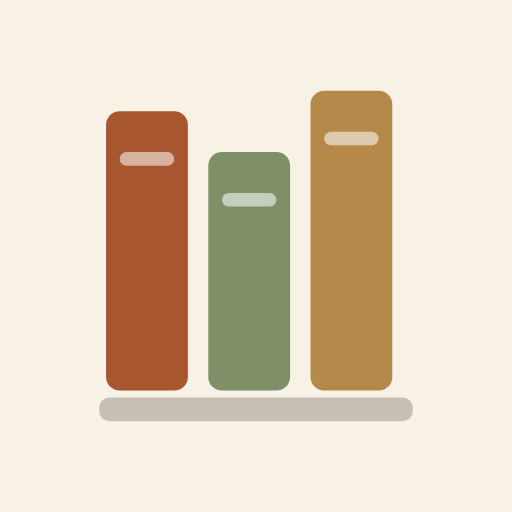
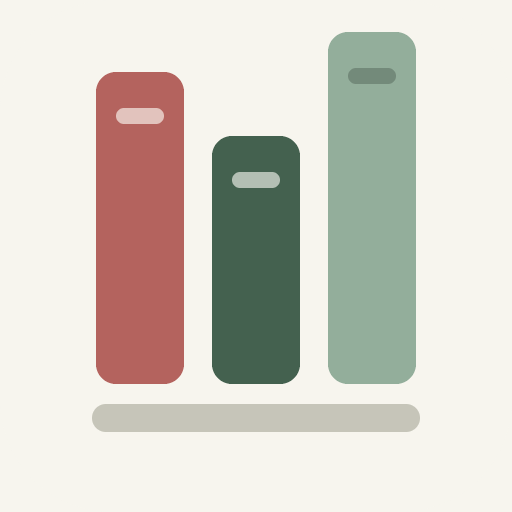
Add files via upload

diff --git a/index.html b/index.html
@@ -3,7 +3,7 @@
 <head>
 <meta charset="utf-8">
 <meta name="viewport" content="width=device-width,initial-scale=1,viewport-fit=cover">
-<meta name="theme-color" content="#f4efe7">
+<meta name="theme-color" content="#F7F5EE">
 <meta name="apple-mobile-web-app-capable" content="yes">
 <meta name="apple-mobile-web-app-status-bar-style" content="default">
 <meta name="apple-mobile-web-app-title" content="Bookshelf">
@@ -12,16 +12,34 @@
 <link rel="apple-touch-icon" href="icon.png">
 <link rel="manifest" href="manifest.webmanifest">
 <style>
-:root{
-  --ink:#3b342c; --blue:#a8562f; --blue-light:#b9ad9e;
-  --green:#7f9068; --terracotta:#a8562f; --coral:#b0503f; --purple:#8a7c6b;
-  --text:#6b6157; --muted:#a1968a; --line:#ece3d6;
-  --surface:#fffdf9; --soft:#f3ede3; --dark:#2e2925;
-  --bg:#f4efe7;
+:root{ /* --blue 는 --accent 로 통일했다 (별칭은 상위에서 굳어버려 탭 색을 못 따라감) */
+  /* 확정 팔레트 (핸드오프 3a — 탭별 서페이스) */
+  --primary:#44614F; --primary-deep:#2E4636;
+  --rose:#B4635E; --rose-soft:#EFDCD9; --rose-tint:#F3E1DF;
+  --rose-ondark:#E7B4B0; --rose-dim:#A15450;
+  --ink:#1F2A24; --text:#5F6259; --muted:#8A8B80;
+  --line:#E6E4D9; --track:#E6E5DA;
+  --surface:#FFFDF7; --soft:#ECEAE0; --dark:#2E4636;
+
+  /* 탭마다 바뀌는 값 — 색을 하드코딩하지 않고 여기 하나로 관리한다 */
+  --page:#F7F5EE; --accent:#44614F; --tabaccent:#44614F;
+  --on-page:#1F2A24; --on-page-sub:#5F6259;
+  --cardbg:#FFFDF7; --cardline:#E6E4D9;
+
+  /* 예전 이름은 새 값으로 이어둔다 — 기존 규칙이 그대로 동작하게 */
+  --blue:var(--accent); --blue-light:#C6C5B9;
+  --green:#44614F; --terracotta:#B4635E; --coral:#A15450; --purple:#8A8B80;
+  --bg:#F7F5EE;
   --font:-apple-system,BlinkMacSystemFont,"Pretendard","Apple SD Gothic Neo","Malgun Gothic","맑은 고딕",sans-serif;
   --r:20px; --rs:14px;
-  --shadow:0 2px 14px rgba(59,52,44,.07);
+  --shadow:0 2px 14px rgba(31,42,36,.07);
 }
+#app[data-tab="home"]{--page:#44614F;--accent:#B4635E;--tabaccent:#44614F;
+  --on-page:#F7F5EE;--on-page-sub:rgba(247,245,238,.66);
+  --cardbg:#F7F5EE;--cardline:transparent}
+#app[data-tab="calendar"]{--page:#EFDCD9;--accent:#B4635E;--tabaccent:#B4635E}
+#app[data-tab="shelf"]{--page:#F7F5EE;--accent:#44614F;--tabaccent:#1F2A24}
+#app[data-tab="settings"]{--page:#F7F5EE;--accent:#44614F;--tabaccent:#8A8B80}
 *{box-sizing:border-box;-webkit-tap-highlight-color:transparent}
 html,body{height:100%}
 body{margin:0;font-family:var(--font);font-size:15px;color:var(--text);
@@ -30,31 +48,33 @@ body{margin:0;font-family:var(--font);font-size:15px;color:var(--text);
 button,input,select,textarea{font-family:inherit;font-size:inherit;color:inherit}
 button{border:0;background:none;cursor:pointer;padding:0}
 
-#app{max-width:460px;margin:0 auto;min-height:100%;background:var(--surface);
-  display:flex;flex-direction:column;box-shadow:0 0 40px rgba(59,52,44,.08)}
+#app{max-width:460px;margin:0 auto;min-height:100%;background:var(--page);
+  display:flex;flex-direction:column;box-shadow:0 0 40px rgba(31,42,36,.08);
+  transition:background .2s ease-out}
 #view{flex:1;padding:24px 24px 16px}
+/* 탭바는 어느 탭에서나 오프화이트 고정 — 활성 항목만 그 탭 색 */
 #tabbar{position:fixed;bottom:0;left:0;right:0;max-width:460px;margin:0 auto;
-  display:flex;background:rgba(255,255,255,.96);border-top:1px solid var(--line);
-  backdrop-filter:blur(8px);padding-bottom:env(safe-area-inset-bottom);z-index:40}
+  display:flex;background:#F7F5EE;border-top:1px solid var(--line);
+  padding-bottom:env(safe-area-inset-bottom);z-index:40}
 #tabbar button{flex:1;min-height:60px;display:flex;flex-direction:column;align-items:center;
-  justify-content:center;gap:3px;font-size:11px;font-weight:700;color:var(--muted)}
-#tabbar button.on{color:var(--blue)}
-#tabbar .ic{display:block;font-size:17px;line-height:1}
+  justify-content:center;gap:3px;font-size:11px;font-weight:700;color:#8A8B80}
+#tabbar .ic{display:block;font-size:17px;line-height:1;color:#C6C5B9}
+#tabbar button.on,#tabbar button.on .ic{color:var(--tabaccent)}
 
 /* 공통 */
-h1.head{font-size:26px;font-weight:800;color:var(--ink);margin:0 0 4px;letter-spacing:-.02em}
-p.sub{font-size:13px;color:var(--muted);margin:0 0 24px}
-.sect{font-size:12px;font-weight:800;color:var(--muted);letter-spacing:.1em;
+h1.head{font-size:26px;font-weight:800;color:var(--on-page);margin:0 0 4px;letter-spacing:-.02em}
+p.sub{font-size:13px;color:var(--on-page-sub);margin:0 0 24px}
+.sect{font-size:12px;font-weight:800;color:var(--on-page-sub);letter-spacing:.1em;
   margin:32px 0 8px}
-.card{background:var(--soft);border-radius:var(--r);padding:16px}
-.btn{display:block;width:100%;background:var(--blue);color:#fff;border-radius:var(--rs);
+.card{background:var(--cardbg);border:1px solid var(--cardline);border-radius:var(--r);padding:16px}
+.btn{display:block;width:100%;background:var(--accent);color:#FFFDF7;border-radius:var(--rs);
   padding:18px;min-height:60px;text-align:center;font-size:15px;font-weight:800}
 .btn.ghost{background:var(--soft);color:var(--text)}
 .btn.danger{background:#f7e6e0;color:var(--coral)}
 .btn.sm{padding:14px;min-height:52px;font-size:13px}
 .row{display:flex;gap:8px}
 .row>*{flex:1}
-.empty{text-align:center;padding:48px 16px;color:var(--muted);font-size:14px}
+.empty{text-align:center;padding:48px 16px;color:var(--on-page-sub);font-size:14px}
 .empty .big{font-size:34px;display:block;margin-bottom:16px;opacity:.5}
 .warn{background:#f7e6e0;border-left:5px solid var(--coral);border-radius:0 var(--rs) var(--rs) 0;padding:14px 16px;margin-bottom:24px;font-size:12px;line-height:1.6;color:#8c4033}
 
@@ -70,7 +90,7 @@ p.sub{font-size:13px;color:var(--muted);margin:0 0 24px}
 .c5{background:linear-gradient(160deg,#a35a56,#77393a)}
 
 /* 홈 */
-.now{display:flex;gap:16px;background:var(--soft);border-radius:var(--r);padding:16px;margin-bottom:24px}
+.now{display:flex;gap:16px;background:var(--cardbg);border:1px solid var(--cardline);border-radius:var(--r);padding:16px;margin-bottom:24px}
 .now .cv{width:68px;height:94px;flex:none}
 .now .t{font-size:15px;font-weight:700;color:var(--ink);margin:0 0 2px;line-height:1.35}
 .now .a{font-size:12px;color:var(--muted);margin:0 0 8px}
@@ -79,20 +99,21 @@ p.sub{font-size:13px;color:var(--muted);margin:0 0 24px}
 .pg{font-size:11px;color:var(--muted)}
 .pgrow{display:flex;align-items:baseline;justify-content:space-between;gap:8px}
 .pgpct{font-size:22px;font-weight:800;color:var(--green);letter-spacing:-.02em;line-height:1;flex:none}
-.quota{background:rgba(168,86,47,.10);border-radius:var(--r) var(--r) 0 0;padding:16px 20px;
+/* 오늘 몫 — 딥그린 지면 위라 흰계열 글씨, 강조는 #E7B4B0 */
+.quota{background:rgba(247,245,238,.14);border-radius:var(--r) var(--r) 0 0;padding:16px 20px;
   display:flex;justify-content:space-between;align-items:center;gap:8px}
-.quota .lb{display:block;font-size:10px;font-weight:800;color:var(--terracotta);letter-spacing:.1em}
-.quota .vl{display:block;font-size:17px;font-weight:800;color:var(--ink)}
-.quota .rest{font-size:11px;font-weight:700;color:var(--terracotta);text-align:right;
+.quota .lb{display:block;font-size:10px;font-weight:800;color:var(--rose-ondark);letter-spacing:.1em}
+.quota .vl{display:block;font-size:17px;font-weight:800;color:#F7F5EE}
+.quota .rest{font-size:11px;font-weight:700;color:var(--rose-ondark);text-align:right;
   line-height:1.4;flex:none}
-.startbtn{background:var(--blue);color:#fff;border-radius:var(--r);width:100%;
+.startbtn{background:var(--accent);color:#FFFDF7;border-radius:var(--r);width:100%;
   text-align:center;padding:24px 16px;min-height:88px;margin-bottom:24px;
   box-shadow:0 6px 18px rgba(168,86,47,.24)}
 .startbtn.att{border-radius:0 0 var(--r) var(--r)}
 .startbtn .big{font-size:19px;font-weight:800;display:block;margin-bottom:2px}
 .startbtn .sm{font-size:12px;opacity:.75}
 .stat3{display:grid;grid-template-columns:repeat(3,1fr);gap:8px}
-.stat3 div{background:var(--soft);border-radius:var(--rs);padding:18px 8px;text-align:center}
+.stat3 div{background:var(--cardbg);border:1px solid var(--cardline);border-radius:var(--rs);padding:18px 8px;text-align:center}
 .stat3 .v{font-size:19px;font-weight:800;color:var(--ink);display:block}
 .stat3 .k{font-size:11px;color:var(--muted)}
 
@@ -127,7 +148,7 @@ p.sub{font-size:13px;color:var(--muted);margin:0 0 24px}
 .field label{display:block;font-size:12px;font-weight:700;color:var(--muted);margin-bottom:8px}
 .field input,.field select,.field textarea{width:100%;border:1px solid var(--line);
   border-radius:var(--rs);padding:16px;min-height:56px;background:var(--surface);outline:none}
-.field input:focus,.field textarea:focus{border-color:var(--blue)}
+.field input:focus,.field textarea:focus{border-color:var(--accent)}
 .field textarea{resize:vertical;min-height:72px}
 .hint{font-size:11px;color:var(--muted);margin-top:8px}
 .chk{display:flex;align-items:center;gap:12px;background:var(--soft);border-radius:var(--rs);
@@ -138,7 +159,7 @@ p.sub{font-size:13px;color:var(--muted);margin:0 0 24px}
 .chk .tx{font-size:14px;font-weight:700;color:var(--ink)}
 .swatch{display:flex;gap:8px}
 .swatch button{width:44px;height:44px;border-radius:8px;flex:none;opacity:.4}
-.swatch button.on{opacity:1;box-shadow:0 0 0 3px var(--surface),0 0 0 5px var(--blue)}
+.swatch button.on{opacity:1;box-shadow:0 0 0 3px var(--surface),0 0 0 5px var(--accent)}
 .cv.ph{background-size:cover;background-position:center;padding:0}
 .fin.ph{background-size:cover;background-position:center}
 .coverpick{display:flex;gap:16px;align-items:flex-start}
@@ -152,7 +173,7 @@ p.sub{font-size:13px;color:var(--muted);margin:0 0 24px}
 .srch .msg{font-size:12px;color:var(--muted);padding:10px 0;line-height:1.5}
 .srch .msg.err{color:var(--coral)}
 .srch .dots{display:inline-block;width:13px;height:13px;border-radius:50%;vertical-align:-2px;
-  margin-right:6px;border:2px solid #e2d9cb;border-top-color:var(--blue);
+  margin-right:6px;border:2px solid #e2d9cb;border-top-color:var(--accent);
   animation:spin .8s linear infinite}
 @keyframes spin{to{transform:rotate(360deg)}}
 .srch .list{display:block;border:1px solid var(--line);border-radius:var(--rs);overflow:hidden}
@@ -171,9 +192,9 @@ p.sub{font-size:13px;color:var(--muted);margin:0 0 24px}
   background:rgba(127,144,104,.18);border-radius:999px;padding:4px 8px}
 
 /* 출처 */
-#credit{text-align:center;font-size:10px;color:var(--muted);line-height:1.5;
+#credit{text-align:center;font-size:10px;color:var(--on-page-sub);line-height:1.5;
   padding:0 24px 96px;word-break:keep-all}
-#credit a{color:var(--muted)}
+#credit a{color:var(--on-page-sub)}
 </style>
 <style>
 /* 캘린더 */
@@ -186,12 +207,14 @@ p.sub{font-size:13px;color:var(--muted);margin:0 0 24px}
 .cal .cell{height:56px;display:flex;flex-direction:column;align-items:center;
   justify-content:center;gap:6px}
 .cal .d{width:34px;height:34px;border-radius:10px;display:flex;align-items:center;
-  justify-content:center;font-weight:700;font-size:12px;color:var(--muted)}
-.l1{background:rgba(127,144,104,.22);color:var(--ink)!important}
-.l2{background:rgba(127,144,104,.45);color:var(--ink)!important}
-.l3{background:rgba(127,144,104,.75);color:#fff!important}
-.l4{background:var(--green);color:#fff!important}
-.cal .d.tod{box-shadow:0 0 0 2px var(--terracotta)}
+  justify-content:center;font-weight:700;font-size:12px;color:#A9A79C}
+/* 히트맵 그린 스케일 — 범례 스와치도 같은 클래스를 써서 색이 어긋나지 않는다 */
+.l1{background:#E9EEE7;color:#2E4636!important}
+.l2{background:#C7D6C9;color:#2E4636!important}
+.l3{background:#93AE9B;color:#F7F5EE!important}
+.l4{background:#44614F;color:#F7F5EE!important}
+/* 오늘은 채움색 대신 링으로 표시한다 (읽은 양 색은 그대로 살린다) */
+.cal .d.tod{box-shadow:inset 0 0 0 2px var(--accent)}
 .cal .fin{width:13px;height:17px;border-radius:2px;
   box-shadow:0 1px 3px rgba(59,52,44,.3),inset 2px 0 0 rgba(255,255,255,.35)}
 .legend{display:flex;align-items:center;gap:6px;justify-content:center;margin:16px 0;
@@ -208,7 +231,7 @@ p.sub{font-size:13px;color:var(--muted);margin:0 0 24px}
 .tabs button{font-size:13px;font-weight:700;color:var(--muted);min-height:48px;padding:0 16px;
   display:inline-flex;align-items:center;
   border-radius:var(--rs);background:var(--soft);white-space:nowrap;flex:none}
-.tabs button.on{background:var(--blue);color:#fff}
+.tabs button.on{background:var(--accent);color:#FFFDF7}
 /* 책장 — 실제 선반에 책이 꽂힌 모양 */
 .srow{margin-bottom:18px}
 /* 표지 줄 → 선반 → 글자 줄 순서로 쌓는다.
@@ -297,7 +320,7 @@ p.sub{font-size:13px;color:var(--muted);margin:0 0 24px}
 .proof .a{font-size:12px;color:var(--muted);margin:0 0 16px}
 .proof .kpi{display:flex;justify-content:center;gap:20px;padding:16px 0;margin-bottom:16px;
   border-top:1px solid rgba(255,255,255,.7);border-bottom:1px solid rgba(255,255,255,.7)}
-.proof .kpi .v{font-size:16px;font-weight:800;color:var(--blue);display:block}
+.proof .kpi .v{font-size:16px;font-weight:800;color:var(--accent);display:block}
 .proof .kpi .k{font-size:10px;color:var(--muted)}
 .proof .quote{font-size:13px;color:var(--text);line-height:1.6;margin:8px 0 16px;word-break:keep-all}
 .proof .brand{font-size:10px;font-weight:700;color:var(--blue-light);letter-spacing:.3em}
@@ -597,6 +620,9 @@ function renderTabs(){
 
 function render(){
   renderTabs();
+  /* 탭 하나만 알려주면 색은 CSS가 알아서 바꾼다 (책 상세는 책장 색을 따른다) */
+  document.getElementById('app').dataset.tab =
+    (UI.bookId && book(UI.bookId)) ? 'shelf' : UI.tab;
   if(UI.bookId && book(UI.bookId)) return renderDetail();
   UI.bookId = null;
   if(UI.tab==='home') return renderHome();
